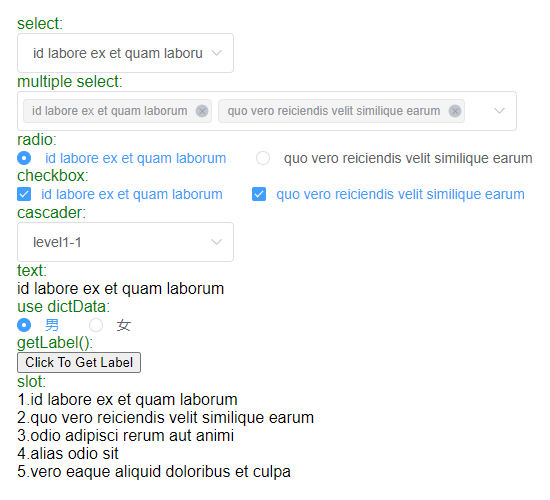
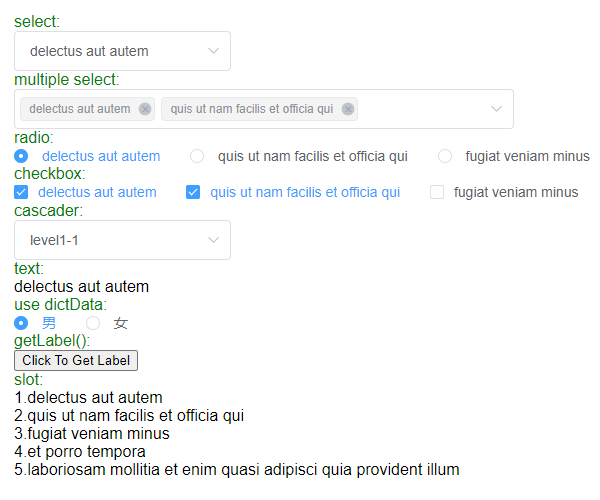
update example

Changed region(s): [[0.0, 0.03, 0.9891, 0.96], [0.3709, 0.48, 0.4018, 0.51]]

diff --git a/src/App.vue b/src/App.vue
@@ -2,19 +2,19 @@
   <div id="app">
     <div>
       <div class="label">select:</div>
-      <v-dict v-model="dictValue" type="select" code="1"></v-dict>
+      <v-dict v-model="dictValue" type="select" code="todos"></v-dict>
     </div>
     <div>
       <div class="label">multiple select:</div>
-      <v-dict v-model="dictArr" type="select" code="1" multiple style="width:500px"></v-dict>
+      <v-dict v-model="dictArr" type="select" code="todos" multiple style="width:500px"></v-dict>
     </div>
     <div>
       <div class="label">radio:</div>
-      <v-dict v-model="dictValue" type="radio" code="1"></v-dict>
+      <v-dict v-model="dictValue" type="radio" code="todos"></v-dict>
     </div>
     <div>
       <div class="label">checkbox:</div>
-      <v-dict v-model="dictArr" code="1" type="checkbox"></v-dict>
+      <v-dict v-model="dictArr" code="todos" type="checkbox"></v-dict>
     </div>
     <div>
       <div class="label">cascader:</div>
@@ -29,7 +29,7 @@
     </div>
     <div>
       <div class="label">text:</div>
-      <v-dict v-model="dictValue" code="1" type="text"></v-dict>
+      <v-dict v-model="dictValue" code="todos" type="text"></v-dict>
     </div>
     <div>
       <div class="label">use dictData:</div>
@@ -47,7 +47,7 @@
     </div>
     <div>
       <div class="label">slot:</div>
-      <v-dict code="1">
+      <v-dict code="todos">
         <template #default="{options}">
           <div>
             <div v-for="item in options" :key="item.value">{{ item.value }}.{{ item.label }}</div>

diff --git a/src/main.js b/src/main.js
@@ -1,6 +1,5 @@
 import Vue from "vue";
 import App from "./App.vue";
-import axios from "axios";
 import ElementUI from "element-ui";
 import "element-ui/lib/theme-chalk/index.css";
 import VDict from "../packages/index.js";
@@ -8,14 +7,16 @@ import VDict from "../packages/index.js";
 Vue.config.productionTip = false;
 
 const getDict = code => {
-  return axios.get("http://jsonplaceholder.typicode.com/posts/" + code + "/comments");
+  return fetch("https://jsonplaceholder.typicode.com/" + code)
+    .then(response => response.json())
+    .then(json => json.filter((e, i) => i < 5));
 };
 
 Vue.use(ElementUI);
 Vue.use(VDict, {
   request: getDict,
-  dataPath: "res.data",
-  label: "name",
+  dataPath: "res",
+  label: "title",
   value: "id"
 });
 

diff --git a/packages/index.vue b/packages/index.vue
@@ -122,6 +122,7 @@ export default {
       }
       window.DictRequesting = true;
       request?.(this.code)
+        // eslint-disable-next-line no-unused-vars
         .then(res => {
           this.options = this.formatData(eval(dataPath));
           let dict = window.Dict || {};

diff --git a/README.md b/README.md
@@ -27,22 +27,23 @@ yarn add vue-dictionary
 ```js
 import Vue from "vue";
 import App from "./App.vue";
-import axios from "axios";
 import ElementUI from "element-ui";
 import "element-ui/lib/theme-chalk/index.css";
-import VDict from "../packages/index.js";
+import VDict from "vue-dictionary";
 
 Vue.config.productionTip = false;
 
-const getDict = type => {
-  return axios.get("http://jsonplaceholder.typicode.com/posts/" + type + "/comments");
+const getDict = code => {
+  return fetch("https://jsonplaceholder.typicode.com/" + code)
+    .then(response => response.json())
+    .then(json => json.filter((e, i) => i < 5));
 };
 
 Vue.use(ElementUI);
 Vue.use(VDict, {
   request: getDict,
-  dataPath: "res.data",
-  label: "name",
+  dataPath: "res",
+  label: "title",
   value: "id"
 });
 
@@ -53,7 +54,7 @@ new Vue({
 
 ## 示例
 
-- [演示](https://soullyoko.github.io/vue-dictionary/)
+- [演示](https://soullyoko.github.io/vue-dictionary/index.html)
   ![example](https://github.com/SoulLyoko/vue-dictionary/blob/master/example.png?raw=true)
 
 <details>
@@ -65,19 +66,19 @@ new Vue({
   <div id="app">
     <div>
       <div class="label">select:</div>
-      <v-dict v-model="dictValue" type="select" code="1"></v-dict>
+      <v-dict v-model="dictValue" type="select" code="todos"></v-dict>
     </div>
     <div>
       <div class="label">multiple select:</div>
-      <v-dict v-model="dictArr" type="select" code="1" multiple style="width:500px"></v-dict>
+      <v-dict v-model="dictArr" type="select" code="todos" multiple style="width:500px"></v-dict>
     </div>
     <div>
       <div class="label">radio:</div>
-      <v-dict v-model="dictValue" type="radio" code="1"></v-dict>
+      <v-dict v-model="dictValue" type="radio" code="todos"></v-dict>
     </div>
     <div>
       <div class="label">checkbox:</div>
-      <v-dict v-model="dictArr" code="1" type="checkbox"></v-dict>
+      <v-dict v-model="dictArr" code="todos" type="checkbox"></v-dict>
     </div>
     <div>
       <div class="label">cascader:</div>
@@ -92,7 +93,7 @@ new Vue({
     </div>
     <div>
       <div class="label">text:</div>
-      <v-dict v-model="dictValue" code="1" type="text"></v-dict>
+      <v-dict v-model="dictValue" code="todos" type="text"></v-dict>
     </div>
     <div>
       <div class="label">use dictData:</div>
@@ -110,7 +111,7 @@ new Vue({
     </div>
     <div>
       <div class="label">slot:</div>
-      <v-dict code="1">
+      <v-dict code="todos">
         <template #default="{options}">
           <div>
             <div v-for="item in options" :key="item.value">{{ item.value }}.{{ item.label }}</div>
